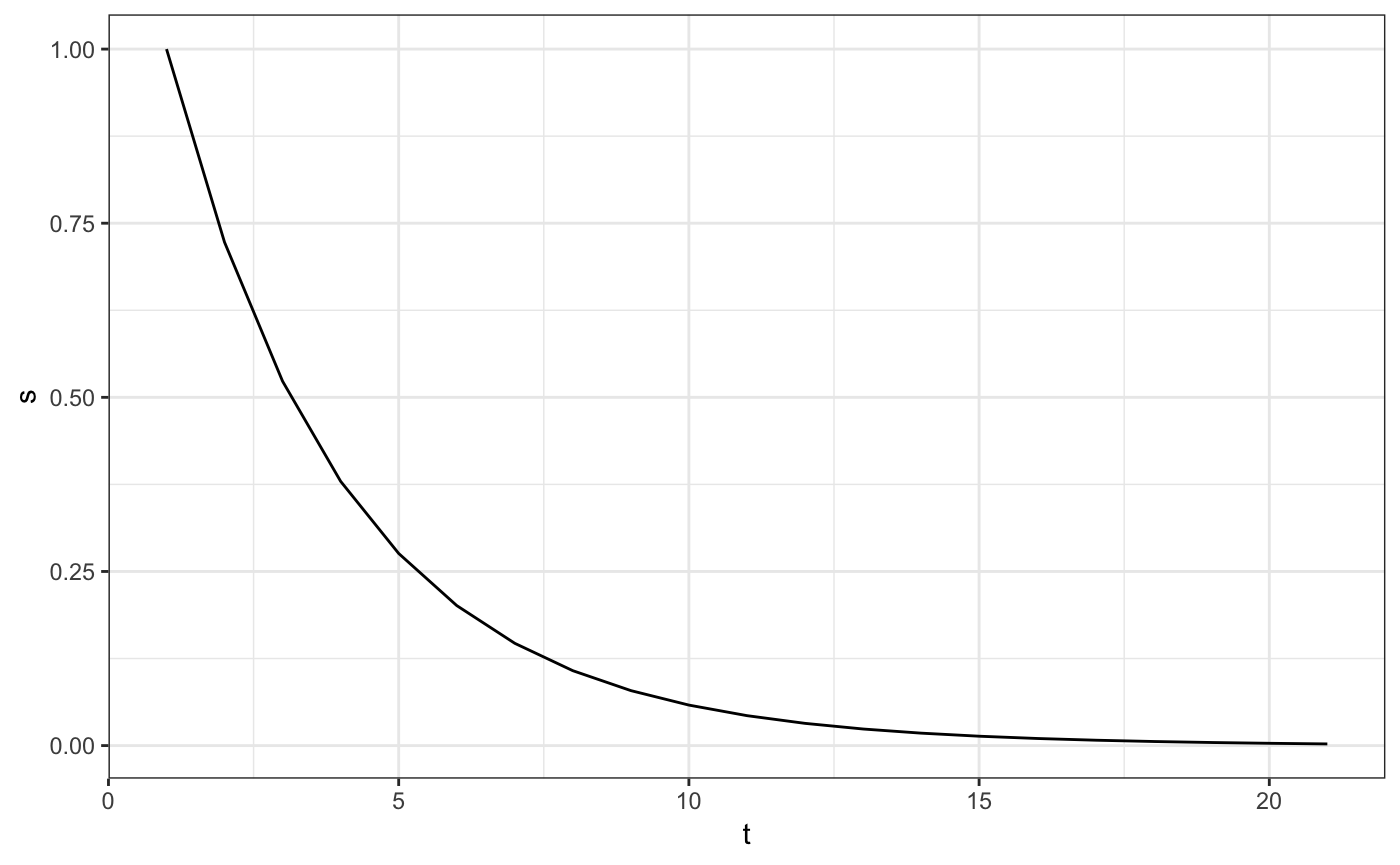
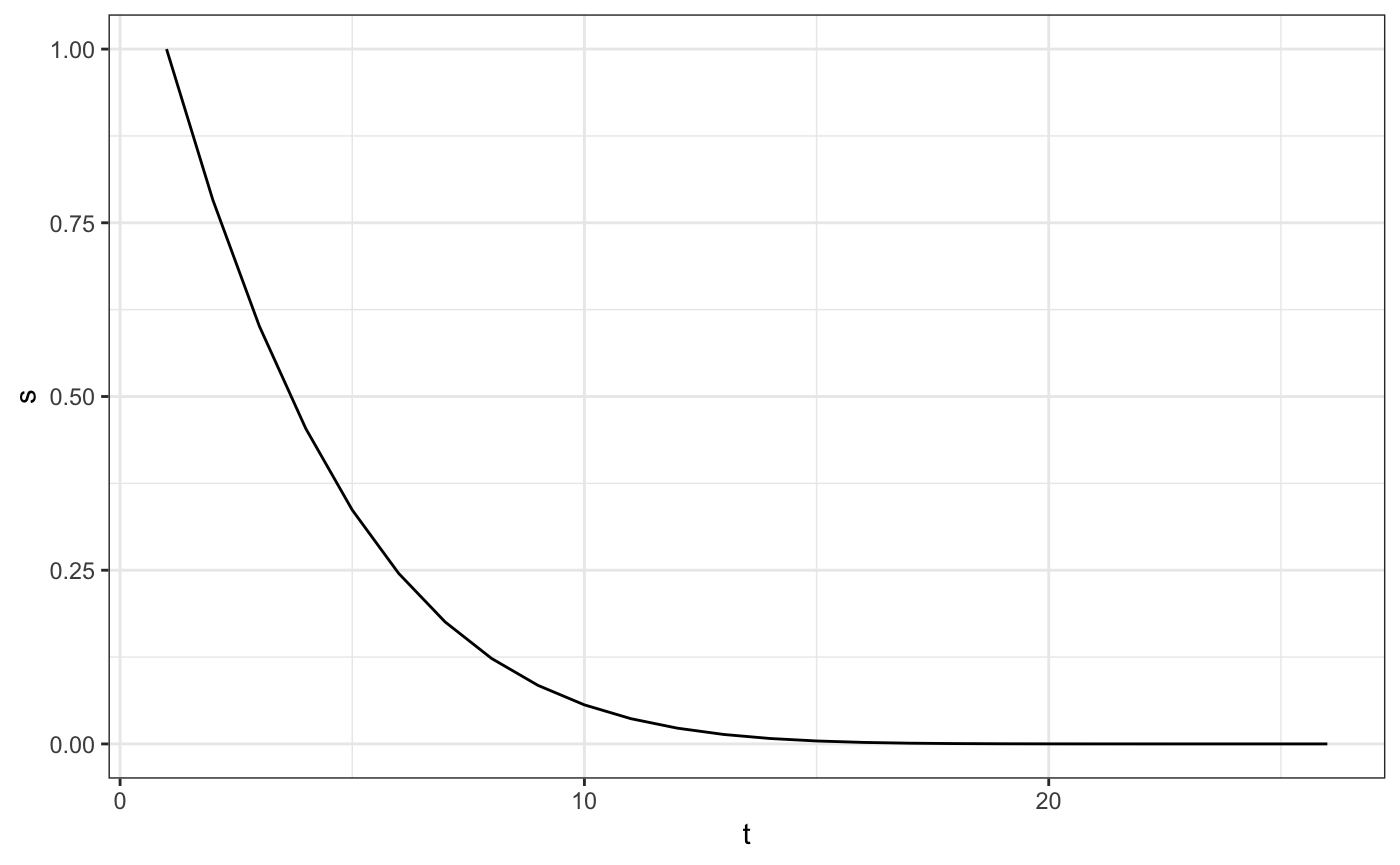
fix DESCRIPTION

diff --git a/docs/articles/moss_intro.html b/docs/articles/moss_intro.html
@@ -80,7 +80,7 @@
       <h1>How to use MOSS package</h1>
                         <h4 class="author"><a href="https://wilsoncai1992.github.io/">Weixin Cai</a></h4>
             
-            <h4 class="date">2019-04-16</h4>
+            <h4 class="date">2019-04-17</h4>
       
       <small class="dont-index">Source: <a href="https://github.com/wilsoncai1992/MOSS/blob/master/vignettes/moss_intro.rmd"><code>vignettes/moss_intro.rmd</code></a></small>
       <div class="hidden name"><code>moss_intro.rmd</code></div>
@@ -168,7 +168,7 @@
 <pre><code>## Version: 1.1.1</code></pre>
 <pre><code>## Loading required package: R6</code></pre>
 <pre><code>## Loading required package: Rsolnp</code></pre>
-<pre><code>## MOSS v1.1.1: model one-step survival</code></pre>
+<pre><code>## MOSS v1.1.1: Model One-Step Survival</code></pre>
 <div class="sourceCode" id="cb29"><pre class="sourceCode r"><code class="sourceCode r"><a class="sourceLine" id="cb29-1" data-line-number="1">sl_lib_g &lt;-<span class="st"> </span><span class="kw"><a href="https://www.rdocumentation.org/packages/base/topics/c">c</a></span>(<span class="st">"SL.mean"</span>, <span class="st">"SL.glm"</span>)</a>
 <a class="sourceLine" id="cb29-2" data-line-number="2">sl_lib_censor &lt;-<span class="st"> </span><span class="kw"><a href="https://www.rdocumentation.org/packages/base/topics/c">c</a></span>(<span class="st">"SL.mean"</span>, <span class="st">"SL.glm"</span>)</a>
 <a class="sourceLine" id="cb29-3" data-line-number="3">sl_lib_failure &lt;-<span class="st"> </span><span class="kw"><a href="https://www.rdocumentation.org/packages/base/topics/c">c</a></span>(<span class="st">"SL.mean"</span>, <span class="st">"SL.glm"</span>, <span class="st">"SL.step.forward"</span>)</a>
@@ -187,33 +187,35 @@
 
 ## Warning: glm.fit: fitted probabilities numerically 0 or 1 occurred
 
+## Warning: glm.fit: fitted probabilities numerically 0 or 1 occurred
+
+## Warning: glm.fit: fitted probabilities numerically 0 or 1 occurred
+
+## Warning: glm.fit: fitted probabilities numerically 0 or 1 occurred
+
+## Warning: glm.fit: fitted probabilities numerically 0 or 1 occurred
+
+## Warning: glm.fit: fitted probabilities numerically 0 or 1 occurred
+
+## Warning: glm.fit: fitted probabilities numerically 0 or 1 occurred
+
+## Warning: glm.fit: fitted probabilities numerically 0 or 1 occurred
+
+## Warning: glm.fit: fitted probabilities numerically 0 or 1 occurred
+
 ## Warning: glm.fit: fitted probabilities numerically 0 or 1 occurred</code></pre>
-<pre><code>## Warning: glm.fit: algorithm did not converge</code></pre>
-<pre><code>## Warning: glm.fit: fitted probabilities numerically 0 or 1 occurred
-
-## Warning: glm.fit: fitted probabilities numerically 0 or 1 occurred
-
-## Warning: glm.fit: fitted probabilities numerically 0 or 1 occurred
-
-## Warning: glm.fit: fitted probabilities numerically 0 or 1 occurred
-
-## Warning: glm.fit: fitted probabilities numerically 0 or 1 occurred
-
-## Warning: glm.fit: fitted probabilities numerically 0 or 1 occurred
-
-## Warning: glm.fit: fitted probabilities numerically 0 or 1 occurred</code></pre>
-<div class="sourceCode" id="cb33"><pre class="sourceCode r"><code class="sourceCode r"><a class="sourceLine" id="cb33-1" data-line-number="1"><span class="kw"><a href="https://www.rdocumentation.org/packages/base/topics/names">names</a></span>(sl_fit)</a></code></pre></div>
+<div class="sourceCode" id="cb31"><pre class="sourceCode r"><code class="sourceCode r"><a class="sourceLine" id="cb31-1" data-line-number="1"><span class="kw"><a href="https://www.rdocumentation.org/packages/base/topics/names">names</a></span>(sl_fit)</a></code></pre></div>
 <pre><code>## [1] "density_failure_1" "density_failure_0" "density_censor_1" 
 ## [4] "density_censor_0"  "g1W"</code></pre>
 <p>the <code>sl_fit</code> will contain the fitted conditional densities for the failure events (<code>density_failure_1</code> for treatment group, <code>density_failure_0</code> for control group), censoring events (<code>density_censor_1</code> for treatment, <code>density_censor_0</code> for control), and propensity scores (a vector <code>g1W</code>)</p>
-<div class="sourceCode" id="cb35"><pre class="sourceCode r"><code class="sourceCode r"><a class="sourceLine" id="cb35-1" data-line-number="1">sl_fit<span class="op">$</span>density_failure_<span class="dv">1</span><span class="op">$</span><span class="kw">hazard_to_survival</span>()</a></code></pre></div>
+<div class="sourceCode" id="cb33"><pre class="sourceCode r"><code class="sourceCode r"><a class="sourceLine" id="cb33-1" data-line-number="1">sl_fit<span class="op">$</span>density_failure_<span class="dv">1</span><span class="op">$</span><span class="kw">hazard_to_survival</span>()</a></code></pre></div>
 <pre><code>## &lt;survival_curve&gt;
 ##   Public:
 ##     ci: function (A, T_tilde, Delta, density_failure, density_censor, 
 ##     clone: function (deep = FALSE) 
 ##     create_ggplot_df: function (W = NULL) 
 ##     display: function (type, W = NULL) 
-##     hazard: 0.189681420081536 0.293878345332586 0.20317147916468 0.3 ...
+##     hazard: 0.269885029873596 0.339870398782636 0.300586115177013 0. ...
 ##     hazard_to_pdf: function () 
 ##     hazard_to_survival: function () 
 ##     initialize: function (t, hazard = NULL, survival = NULL, pdf = NULL) 
@@ -224,15 +226,15 @@
 ##     survival: 1 1 1 1 1 1 1 1 1 1 1 1 1 1 1 1 1 1 1 1 1 1 1 1 1 1 1 1  ...
 ##     survival_to_hazard: function () 
 ##     survival_to_pdf: function () 
-##     t: 1 2 3 4 5 6 7 8 9 10 11 12 13 14 15 16 17 18 19 20 21</code></pre>
-<div class="sourceCode" id="cb37"><pre class="sourceCode r"><code class="sourceCode r"><a class="sourceLine" id="cb37-1" data-line-number="1">sl_fit<span class="op">$</span>density_failure_<span class="dv">0</span><span class="op">$</span><span class="kw">hazard_to_survival</span>()</a></code></pre></div>
+##     t: 1 2 3 4 5 6 7 8 9 10 11 12 13 14 15 16 17 18 19 20 21 22 ...</code></pre>
+<div class="sourceCode" id="cb35"><pre class="sourceCode r"><code class="sourceCode r"><a class="sourceLine" id="cb35-1" data-line-number="1">sl_fit<span class="op">$</span>density_failure_<span class="dv">0</span><span class="op">$</span><span class="kw">hazard_to_survival</span>()</a></code></pre></div>
 <pre><code>## &lt;survival_curve&gt;
 ##   Public:
 ##     ci: function (A, T_tilde, Delta, density_failure, density_censor, 
 ##     clone: function (deep = FALSE) 
 ##     create_ggplot_df: function (W = NULL) 
 ##     display: function (type, W = NULL) 
-##     hazard: 0.272575225311666 0.412908720540839 0.292426175931976 0. ...
+##     hazard: 0.520974513298299 0.602279192139841 0.558812395023153 0. ...
 ##     hazard_to_pdf: function () 
 ##     hazard_to_survival: function () 
 ##     initialize: function (t, hazard = NULL, survival = NULL, pdf = NULL) 
@@ -243,73 +245,77 @@
 ##     survival: 1 1 1 1 1 1 1 1 1 1 1 1 1 1 1 1 1 1 1 1 1 1 1 1 1 1 1 1  ...
 ##     survival_to_hazard: function () 
 ##     survival_to_pdf: function () 
-##     t: 1 2 3 4 5 6 7 8 9 10 11 12 13 14 15 16 17 18 19 20 21</code></pre>
-<div class="sourceCode" id="cb39"><pre class="sourceCode r"><code class="sourceCode r"><a class="sourceLine" id="cb39-1" data-line-number="1"><span class="co"># a quick hack in case there is no data where T_tilde = 1 (time start from 1)</span></a>
-<a class="sourceLine" id="cb39-2" data-line-number="2">k_grid &lt;-<span class="st"> </span><span class="dv">1</span><span class="op">:</span><span class="kw"><a href="https://www.rdocumentation.org/packages/base/topics/Extremes">max</a></span>(df<span class="op">$</span>T.tilde)</a>
-<a class="sourceLine" id="cb39-3" data-line-number="3">sl_fit<span class="op">$</span>density_failure_<span class="dv">1</span><span class="op">$</span>t &lt;-<span class="st"> </span>k_grid</a>
-<a class="sourceLine" id="cb39-4" data-line-number="4">sl_fit<span class="op">$</span>density_failure_<span class="dv">0</span><span class="op">$</span>t &lt;-<span class="st"> </span>k_grid</a></code></pre></div>
+##     t: 1 2 3 4 5 6 7 8 9 10 11 12 13 14 15 16 17 18 19 20 21 22 ...</code></pre>
+<div class="sourceCode" id="cb37"><pre class="sourceCode r"><code class="sourceCode r"><a class="sourceLine" id="cb37-1" data-line-number="1"><span class="co"># a quick hack in case there is no data where T_tilde = 1 (time start from 1)</span></a>
+<a class="sourceLine" id="cb37-2" data-line-number="2">k_grid &lt;-<span class="st"> </span><span class="dv">1</span><span class="op">:</span><span class="kw"><a href="https://www.rdocumentation.org/packages/base/topics/Extremes">max</a></span>(df<span class="op">$</span>T.tilde)</a>
+<a class="sourceLine" id="cb37-3" data-line-number="3">sl_fit<span class="op">$</span>density_failure_<span class="dv">1</span><span class="op">$</span>t &lt;-<span class="st"> </span>k_grid</a>
+<a class="sourceLine" id="cb37-4" data-line-number="4">sl_fit<span class="op">$</span>density_failure_<span class="dv">0</span><span class="op">$</span>t &lt;-<span class="st"> </span>k_grid</a></code></pre></div>
 <p>We need to call <code>hazard_to_survival</code> method to always do a tranformation from conditional hazard to conditional survival probabilities (one-to-one transformation).</p>
 </div>
 <div id="perform-tmle-adjustment-of-the-conditional-survival-fit-moss_hazard" class="section level1">
 <h1 class="hasAnchor">
 <a href="#perform-tmle-adjustment-of-the-conditional-survival-fit-moss_hazard" class="anchor"></a>perform TMLE adjustment of the conditional survival fit (<code>MOSS_hazard</code>)</h1>
 <p>First we set the inputs - T_tilde: same as before - Delta: same as before - A: same as before - density_failure: use <code>sl_fit$density_failure_1</code> if you want to estimate treatment group survival curve; use <code>sl_fit$density_failure_0</code> for control group - density_censor: use <code>sl_fit$density_censor_1</code> or <code>sl_fit$density_censor_0</code> - g1W: use <code>sl_fit$g1W</code> - A_intervene: set <code>1</code> if you want to estimate treatment group survival curve; set <code>0</code> for control group - k_grid: <code>1:max(T_tilde)</code></p>
-<div class="sourceCode" id="cb40"><pre class="sourceCode r"><code class="sourceCode r"><a class="sourceLine" id="cb40-1" data-line-number="1">moss_hazard_fit &lt;-<span class="st"> </span>MOSS_hazard<span class="op">$</span><span class="kw">new</span>(</a>
-<a class="sourceLine" id="cb40-2" data-line-number="2">  <span class="dt">A =</span> df<span class="op">$</span>A,</a>
-<a class="sourceLine" id="cb40-3" data-line-number="3">  <span class="dt">T_tilde =</span> df<span class="op">$</span>T.tilde,</a>
-<a class="sourceLine" id="cb40-4" data-line-number="4">  <span class="dt">Delta =</span> df<span class="op">$</span>Delta,</a>
-<a class="sourceLine" id="cb40-5" data-line-number="5">  <span class="dt">density_failure =</span> sl_fit<span class="op">$</span>density_failure_<span class="dv">1</span>,</a>
-<a class="sourceLine" id="cb40-6" data-line-number="6">  <span class="dt">density_censor =</span> sl_fit<span class="op">$</span>density_censor_<span class="dv">1</span>,</a>
-<a class="sourceLine" id="cb40-7" data-line-number="7">  <span class="dt">g1W =</span> sl_fit<span class="op">$</span>g1W,</a>
-<a class="sourceLine" id="cb40-8" data-line-number="8">  <span class="dt">A_intervene =</span> <span class="dv">1</span>,</a>
-<a class="sourceLine" id="cb40-9" data-line-number="9">  <span class="dt">k_grid =</span> k_grid</a>
-<a class="sourceLine" id="cb40-10" data-line-number="10">)</a></code></pre></div>
+<div class="sourceCode" id="cb38"><pre class="sourceCode r"><code class="sourceCode r"><a class="sourceLine" id="cb38-1" data-line-number="1">moss_hazard_fit &lt;-<span class="st"> </span>MOSS_hazard<span class="op">$</span><span class="kw">new</span>(</a>
+<a class="sourceLine" id="cb38-2" data-line-number="2">  <span class="dt">A =</span> df<span class="op">$</span>A,</a>
+<a class="sourceLine" id="cb38-3" data-line-number="3">  <span class="dt">T_tilde =</span> df<span class="op">$</span>T.tilde,</a>
+<a class="sourceLine" id="cb38-4" data-line-number="4">  <span class="dt">Delta =</span> df<span class="op">$</span>Delta,</a>
+<a class="sourceLine" id="cb38-5" data-line-number="5">  <span class="dt">density_failure =</span> sl_fit<span class="op">$</span>density_failure_<span class="dv">1</span>,</a>
+<a class="sourceLine" id="cb38-6" data-line-number="6">  <span class="dt">density_censor =</span> sl_fit<span class="op">$</span>density_censor_<span class="dv">1</span>,</a>
+<a class="sourceLine" id="cb38-7" data-line-number="7">  <span class="dt">g1W =</span> sl_fit<span class="op">$</span>g1W,</a>
+<a class="sourceLine" id="cb38-8" data-line-number="8">  <span class="dt">A_intervene =</span> <span class="dv">1</span>,</a>
+<a class="sourceLine" id="cb38-9" data-line-number="9">  <span class="dt">k_grid =</span> k_grid</a>
+<a class="sourceLine" id="cb38-10" data-line-number="10">)</a></code></pre></div>
 <p>Perform TMLE step.</p>
-<div class="sourceCode" id="cb41"><pre class="sourceCode r"><code class="sourceCode r"><a class="sourceLine" id="cb41-1" data-line-number="1">psi_moss_hazard_<span class="dv">1</span> &lt;-<span class="st"> </span>moss_hazard_fit<span class="op">$</span><span class="kw">iterate_onestep</span>(</a>
-<a class="sourceLine" id="cb41-2" data-line-number="2">  <span class="dt">epsilon =</span> <span class="fl">1e-2</span>, <span class="dt">max_num_interation =</span> <span class="fl">1e1</span>, <span class="dt">verbose =</span> <span class="ot">FALSE</span></a>
-<a class="sourceLine" id="cb41-3" data-line-number="3">)</a></code></pre></div>
+<div class="sourceCode" id="cb39"><pre class="sourceCode r"><code class="sourceCode r"><a class="sourceLine" id="cb39-1" data-line-number="1">psi_moss_hazard_<span class="dv">1</span> &lt;-<span class="st"> </span>moss_hazard_fit<span class="op">$</span><span class="kw">iterate_onestep</span>(</a>
+<a class="sourceLine" id="cb39-2" data-line-number="2">  <span class="dt">epsilon =</span> <span class="fl">1e-2</span>, <span class="dt">max_num_interation =</span> <span class="fl">1e1</span>, <span class="dt">verbose =</span> <span class="ot">FALSE</span></a>
+<a class="sourceLine" id="cb39-3" data-line-number="3">)</a></code></pre></div>
 <p>TIPS: - set <code>epsilon</code> smaller if the stopping criteria fluctuation is noisy; should smoothly decrease</p>
-<div class="sourceCode" id="cb42"><pre class="sourceCode r"><code class="sourceCode r"><a class="sourceLine" id="cb42-1" data-line-number="1">moss_hazard_fit_<span class="dv">1</span> &lt;-<span class="st"> </span>survival_curve<span class="op">$</span><span class="kw">new</span>(<span class="dt">t =</span> k_grid, <span class="dt">survival =</span> psi_moss_hazard_<span class="dv">1</span>)</a>
-<a class="sourceLine" id="cb42-2" data-line-number="2">moss_hazard_fit_<span class="dv">1</span><span class="op">$</span><span class="kw">display</span>(<span class="dt">type =</span> <span class="st">'survival'</span>)</a></code></pre></div>
+<div class="sourceCode" id="cb40"><pre class="sourceCode r"><code class="sourceCode r"><a class="sourceLine" id="cb40-1" data-line-number="1">moss_hazard_fit_<span class="dv">1</span> &lt;-<span class="st"> </span>survival_curve<span class="op">$</span><span class="kw">new</span>(<span class="dt">t =</span> k_grid, <span class="dt">survival =</span> psi_moss_hazard_<span class="dv">1</span>)</a>
+<a class="sourceLine" id="cb40-2" data-line-number="2">moss_hazard_fit_<span class="dv">1</span><span class="op">$</span><span class="kw">display</span>(<span class="dt">type =</span> <span class="st">'survival'</span>)</a></code></pre></div>
 <p><img src="moss_intro_files/figure-html/unnamed-chunk-7-1.png" width="700"> You don’t have to, but this wraps the estimated survival curve <code>psi_moss_hazard_1</code> nicely with its corresponding time.</p>
 </div>
 <div id="simultaneous-confidence-band-compute_simultaneous_ci" class="section level1">
 <h1 class="hasAnchor">
 <a href="#simultaneous-confidence-band-compute_simultaneous_ci" class="anchor"></a>simultaneous confidence band (<code>compute_simultaneous_ci</code>)</h1>
 <p>use the following script to compute the standard error for each t on the survival curve.</p>
-<div class="sourceCode" id="cb43"><pre class="sourceCode r"><code class="sourceCode r"><a class="sourceLine" id="cb43-1" data-line-number="1">survival_curve_estimate &lt;-<span class="st"> </span><span class="kw"><a href="https://www.rdocumentation.org/packages/base/topics/vector">as.vector</a></span>(moss_hazard_fit_<span class="dv">1</span><span class="op">$</span>survival)</a>
-<a class="sourceLine" id="cb43-2" data-line-number="2">eic_fit &lt;-<span class="st"> </span>eic<span class="op">$</span><span class="kw">new</span>(</a>
-<a class="sourceLine" id="cb43-3" data-line-number="3">  <span class="dt">A =</span> df<span class="op">$</span>A,</a>
-<a class="sourceLine" id="cb43-4" data-line-number="4">  <span class="dt">T_tilde =</span> df<span class="op">$</span>T.tilde,</a>
-<a class="sourceLine" id="cb43-5" data-line-number="5">  <span class="dt">Delta =</span> df<span class="op">$</span>Delta,<span class="dt">density_failure =</span> moss_hazard_fit<span class="op">$</span>density_failure,</a>
-<a class="sourceLine" id="cb43-6" data-line-number="6">  <span class="dt">density_censor =</span> moss_hazard_fit<span class="op">$</span>density_censor,</a>
-<a class="sourceLine" id="cb43-7" data-line-number="7">  <span class="dt">g1W =</span> moss_hazard_fit<span class="op">$</span>g1W,</a>
-<a class="sourceLine" id="cb43-8" data-line-number="8">  <span class="dt">psi =</span> survival_curve_estimate,</a>
-<a class="sourceLine" id="cb43-9" data-line-number="9">  <span class="dt">A_intervene =</span> <span class="dv">1</span></a>
-<a class="sourceLine" id="cb43-10" data-line-number="10">)</a>
-<a class="sourceLine" id="cb43-11" data-line-number="11"></a>
-<a class="sourceLine" id="cb43-12" data-line-number="12">eic_matrix &lt;-<span class="st"> </span>eic_fit<span class="op">$</span><span class="kw">all_t</span>(<span class="dt">k_grid =</span> k_grid)</a>
-<a class="sourceLine" id="cb43-13" data-line-number="13">std_err &lt;-<span class="st"> </span><span class="kw"><a href="../reference/compute_simultaneous_ci.html">compute_simultaneous_ci</a></span>(eic_matrix)</a>
-<a class="sourceLine" id="cb43-14" data-line-number="14">upper_bound &lt;-<span class="st"> </span>survival_curve_estimate <span class="op">+</span><span class="st"> </span><span class="fl">1.96</span> <span class="op">*</span><span class="st"> </span>std_err</a>
-<a class="sourceLine" id="cb43-15" data-line-number="15">lower_bound &lt;-<span class="st"> </span>survival_curve_estimate <span class="op">-</span><span class="st"> </span><span class="fl">1.96</span> <span class="op">*</span><span class="st"> </span>std_err</a>
-<a class="sourceLine" id="cb43-16" data-line-number="16"></a>
-<a class="sourceLine" id="cb43-17" data-line-number="17"><span class="kw"><a href="https://www.rdocumentation.org/packages/base/topics/print">print</a></span>(survival_curve_estimate)</a></code></pre></div>
-<pre><code>##  [1] 1.000000000 0.722535206 0.523024627 0.379409585 0.275858529
-##  [6] 0.201064494 0.146877158 0.107551900 0.078965405 0.058163289
-## [11] 0.043002080 0.031932134 0.023829087 0.017875543 0.013480260
-## [16] 0.010209814 0.007755451 0.005888271 0.004444130 0.003305966
-## [21] 0.002391034</code></pre>
-<div class="sourceCode" id="cb45"><pre class="sourceCode r"><code class="sourceCode r"><a class="sourceLine" id="cb45-1" data-line-number="1"><span class="kw"><a href="https://www.rdocumentation.org/packages/base/topics/print">print</a></span>(upper_bound)</a></code></pre></div>
-<pre><code>##  [1] 1.21299270 1.13719537 0.94235050 0.77852567 0.66296816 0.57164273
-##  [7] 0.50218765 0.43736908 0.40569540 0.38368635 0.36891018 0.35968054
-## [13] 0.34758491 0.34621759 0.32269104 0.32710960 0.33400782 0.34322365
-## [19] 0.35483904 0.11461984 0.05154034</code></pre>
-<div class="sourceCode" id="cb47"><pre class="sourceCode r"><code class="sourceCode r"><a class="sourceLine" id="cb47-1" data-line-number="1"><span class="kw"><a href="https://www.rdocumentation.org/packages/base/topics/print">print</a></span>(lower_bound)</a></code></pre></div>
-<pre><code>##  [1]  0.78700730  0.30787505  0.10369875 -0.01970650 -0.11125110
-##  [6] -0.16951374 -0.20843333 -0.22226528 -0.24776459 -0.26735977
-## [11] -0.28290602 -0.29581627 -0.29992673 -0.31046650 -0.29573052
-## [16] -0.30668998 -0.31849692 -0.33144711 -0.34595078 -0.10800791
-## [21] -0.04675827</code></pre>
+<div class="sourceCode" id="cb41"><pre class="sourceCode r"><code class="sourceCode r"><a class="sourceLine" id="cb41-1" data-line-number="1">survival_curve_estimate &lt;-<span class="st"> </span><span class="kw"><a href="https://www.rdocumentation.org/packages/base/topics/vector">as.vector</a></span>(moss_hazard_fit_<span class="dv">1</span><span class="op">$</span>survival)</a>
+<a class="sourceLine" id="cb41-2" data-line-number="2">eic_fit &lt;-<span class="st"> </span>eic<span class="op">$</span><span class="kw">new</span>(</a>
+<a class="sourceLine" id="cb41-3" data-line-number="3">  <span class="dt">A =</span> df<span class="op">$</span>A,</a>
+<a class="sourceLine" id="cb41-4" data-line-number="4">  <span class="dt">T_tilde =</span> df<span class="op">$</span>T.tilde,</a>
+<a class="sourceLine" id="cb41-5" data-line-number="5">  <span class="dt">Delta =</span> df<span class="op">$</span>Delta,<span class="dt">density_failure =</span> moss_hazard_fit<span class="op">$</span>density_failure,</a>
+<a class="sourceLine" id="cb41-6" data-line-number="6">  <span class="dt">density_censor =</span> moss_hazard_fit<span class="op">$</span>density_censor,</a>
+<a class="sourceLine" id="cb41-7" data-line-number="7">  <span class="dt">g1W =</span> moss_hazard_fit<span class="op">$</span>g1W,</a>
+<a class="sourceLine" id="cb41-8" data-line-number="8">  <span class="dt">psi =</span> survival_curve_estimate,</a>
+<a class="sourceLine" id="cb41-9" data-line-number="9">  <span class="dt">A_intervene =</span> <span class="dv">1</span></a>
+<a class="sourceLine" id="cb41-10" data-line-number="10">)</a>
+<a class="sourceLine" id="cb41-11" data-line-number="11"></a>
+<a class="sourceLine" id="cb41-12" data-line-number="12">eic_matrix &lt;-<span class="st"> </span>eic_fit<span class="op">$</span><span class="kw">all_t</span>(<span class="dt">k_grid =</span> k_grid)</a>
+<a class="sourceLine" id="cb41-13" data-line-number="13">std_err &lt;-<span class="st"> </span><span class="kw"><a href="../reference/compute_simultaneous_ci.html">compute_simultaneous_ci</a></span>(eic_matrix)</a>
+<a class="sourceLine" id="cb41-14" data-line-number="14">upper_bound &lt;-<span class="st"> </span>survival_curve_estimate <span class="op">+</span><span class="st"> </span><span class="fl">1.96</span> <span class="op">*</span><span class="st"> </span>std_err</a>
+<a class="sourceLine" id="cb41-15" data-line-number="15">lower_bound &lt;-<span class="st"> </span>survival_curve_estimate <span class="op">-</span><span class="st"> </span><span class="fl">1.96</span> <span class="op">*</span><span class="st"> </span>std_err</a>
+<a class="sourceLine" id="cb41-16" data-line-number="16"></a>
+<a class="sourceLine" id="cb41-17" data-line-number="17"><span class="kw"><a href="https://www.rdocumentation.org/packages/base/topics/print">print</a></span>(survival_curve_estimate)</a></code></pre></div>
+<pre><code>##  [1] 1.000000e+00 7.824095e-01 6.011307e-01 4.537724e-01 3.366843e-01
+##  [6] 2.454190e-01 1.755676e-01 1.230412e-01 8.426530e-02 5.620227e-02
+## [11] 3.635582e-02 2.270398e-02 1.361796e-02 7.804981e-03 4.257006e-03
+## [16] 2.197599e-03 1.067842e-03 4.856696e-04 2.055458e-04 8.070457e-05
+## [21] 2.925159e-05 9.747704e-06 2.976942e-06 8.312310e-07 2.117638e-07
+## [26] 4.900396e-08</code></pre>
+<div class="sourceCode" id="cb43"><pre class="sourceCode r"><code class="sourceCode r"><a class="sourceLine" id="cb43-1" data-line-number="1"><span class="kw"><a href="https://www.rdocumentation.org/packages/base/topics/print">print</a></span>(upper_bound)</a></code></pre></div>
+<pre><code>##  [1] 1.175195055 1.052590796 0.921491178 0.767369030 0.637024674
+##  [6] 0.534727344 0.448203404 0.406927788 0.386625267 0.378261485
+## [11] 0.377810628 0.357210136 0.230631863 0.228745174 0.228067720
+## [16] 0.227745652 0.227370064 0.179305710 0.178417217 0.177701448
+## [21] 0.176999776 0.176350150 0.175803174 0.175405920 0.175255984
+## [26] 0.005795461</code></pre>
+<div class="sourceCode" id="cb45"><pre class="sourceCode r"><code class="sourceCode r"><a class="sourceLine" id="cb45-1" data-line-number="1"><span class="kw"><a href="https://www.rdocumentation.org/packages/base/topics/print">print</a></span>(lower_bound)</a></code></pre></div>
+<pre><code>##  [1]  0.824804945  0.512228269  0.280770284  0.140175718  0.036343863
+##  [6] -0.043889382 -0.097068187 -0.160845431 -0.218094672 -0.265856947
+## [11] -0.305098982 -0.311802185 -0.203395943 -0.213135212 -0.219553708
+## [16] -0.223350455 -0.225234380 -0.178334371 -0.178006125 -0.177540039
+## [21] -0.176941273 -0.176330654 -0.175797220 -0.175404257 -0.175255560
+## [26] -0.005795363</code></pre>
 <div id="session-information" class="section level2">
 <h2 class="hasAnchor">
 <a href="#session-information" class="anchor"></a>Session Information</h2>
@@ -376,7 +382,7 @@
 
 
       <footer><div class="copyright">
-  <p>Developed by Wilson Cai, Mark J. van der Laan.</p>
+  <p>Developed by Weixin Cai, Mark van der Laan.</p>
 </div>
 
 <div class="pkgdown">

diff --git a/README.html b/README.html
@@ -600,12 +600,8 @@ body {
 
 <body>
 
-<h1 id="rmoss"><code>R</code>/MOSS</h1>
[1 lines of base64/hex data omitted]
-<!-- [![CRAN_Status_Badge](http://www.r-pkg.org/badges/version/MOSS)](http://cran.rstudio.com/web/packages/MOSS/index.html) -->
-
-<!-- [![](http://cranlogs.r-pkg.org/badges/MOSS)](http://cran.rstudio.com/web/packages/MOSS/index.html) [![](http://cranlogs.r-pkg.org/badges/grand-total/MOSS)](http://cran.rstudio.com/web/packages/MOSS/index.html) -->
-
+<h1 id="rmoss-semiparametric-efficient-survival-analysis"><code>R</code>/MOSS: Semiparametric Efficient Survival Analysis</h1>
[1 lines of base64/hex data omitted]
 <p>MOSS performs ensemble machine learning and Targeted Maximum Likelihood (TMLE) to estimate the counter-factual marginal survival functions, while non-parametrically adjusting for measured confounding. TMLE approach is employed to create a doubly robust and semi-parametrically efficient estimator. Simultaneous confidence bands of the entire curve is also available for inference. User can specify what kind of static intervention on treatment (exposure).</p>
 <p>The following comparable methods are also included in the package for you to easily compare methods: - Inverse censoring probability weighted (IPCW) - Locally efficient one-step estimator (estimating equation methods)</p>
 <div class="sourceCode" id="cb1"><pre class="sourceCode r"><code class="sourceCode r"><a class="sourceLine" id="cb1-1" data-line-number="1"><span class="kw">install.packages</span>(<span class="st">'MOSS'</span>)</a>

diff --git a/docs/index.html b/docs/index.html
@@ -5,11 +5,11 @@
 <meta charset="utf-8">
 <meta http-equiv="X-UA-Compatible" content="IE=edge">
 <meta name="viewport" content="width=device-width, initial-scale=1.0">
-<title>One-step TMLE for survival analysis • MOSS</title>
+<title>One-Step TMLE for Survival Analysis • MOSS</title>
 <!-- jquery --><script src="https://cdnjs.cloudflare.com/ajax/libs/jquery/3.3.1/jquery.min.js" integrity="sha256-FgpCb/KJQlLNfOu91ta32o/NMZxltwRo8QtmkMRdAu8=" crossorigin="anonymous"></script><!-- Bootstrap --><link rel="stylesheet" href="https://cdnjs.cloudflare.com/ajax/libs/twitter-bootstrap/3.3.7/css/bootstrap.min.css" integrity="sha256-916EbMg70RQy9LHiGkXzG8hSg9EdNy97GazNG/aiY1w=" crossorigin="anonymous">
 <script src="https://cdnjs.cloudflare.com/ajax/libs/twitter-bootstrap/3.3.7/js/bootstrap.min.js" integrity="sha256-U5ZEeKfGNOja007MMD3YBI0A3OSZOQbeG6z2f2Y0hu8=" crossorigin="anonymous"></script><!-- Font Awesome icons --><link rel="stylesheet" href="https://cdnjs.cloudflare.com/ajax/libs/font-awesome/4.7.0/css/font-awesome.min.css" integrity="sha256-eZrrJcwDc/3uDhsdt61sL2oOBY362qM3lon1gyExkL0=" crossorigin="anonymous">
 <!-- clipboard.js --><script src="https://cdnjs.cloudflare.com/ajax/libs/clipboard.js/2.0.4/clipboard.min.js" integrity="sha256-FiZwavyI2V6+EXO1U+xzLG3IKldpiTFf3153ea9zikQ=" crossorigin="anonymous"></script><!-- sticky kit --><script src="https://cdnjs.cloudflare.com/ajax/libs/sticky-kit/1.1.3/sticky-kit.min.js" integrity="sha256-c4Rlo1ZozqTPE2RLuvbusY3+SU1pQaJC0TjuhygMipw=" crossorigin="anonymous"></script><!-- pkgdown --><link href="pkgdown.css" rel="stylesheet">
-<script src="pkgdown.js"></script><meta property="og:title" content="One-step TMLE for survival analysis">
+<script src="pkgdown.js"></script><meta property="og:title" content="One-Step TMLE for Survival Analysis">
 <meta property="og:description" content="Estimate counterfactual survival curve under static or dynamic interventions on treatment (exposure), while at the same time adjust for measured confounding. Targeted Maximum Likelihood Estimate (TMLE) approach is employed to create a doubly robust and semi-parametrically efficient estimator. Machine Learning algorithms (SuperLearner) are implemented to all stages of the estimation.">
 <meta name="twitter:card" content="summary">
 <!-- mathjax --><script src="https://cdnjs.cloudflare.com/ajax/libs/mathjax/2.7.5/MathJax.js" integrity="sha256-nvJJv9wWKEm88qvoQl9ekL2J+k/RWIsaSScxxlsrv8k=" crossorigin="anonymous"></script><script src="https://cdnjs.cloudflare.com/ajax/libs/mathjax/2.7.5/config/TeX-AMS-MML_HTMLorMML.js" integrity="sha256-84DKXVJXs0/F8OTMzX4UR909+jtl4G7SPypPavF+GfA=" crossorigin="anonymous"></script><!--[if lt IE 9]>
@@ -80,9 +80,9 @@
 
     
     
-<div id="rmoss" class="section level1">
+<div id="rmoss-semiparametric-efficient-survival-analysis" class="section level1">
 <div class="page-header"><h1 class="hasAnchor">
-<a href="#rmoss" class="anchor"></a><code>R</code>/MOSS</h1></div>
+<a href="#rmoss-semiparametric-efficient-survival-analysis" class="anchor"></a><code>R</code>/MOSS: Semiparametric Efficient Survival Analysis</h1></div>
 
 <p>MOSS performs ensemble machine learning and Targeted Maximum Likelihood (TMLE) to estimate the counter-factual marginal survival functions, while non-parametrically adjusting for measured confounding. TMLE approach is employed to create a doubly robust and semi-parametrically efficient estimator. Simultaneous confidence bands of the entire curve is also available for inference. User can specify what kind of static intervention on treatment (exposure).</p>
 <p>The following comparable methods are also included in the package for you to easily compare methods: - Inverse censoring probability weighted (IPCW) - Locally efficient one-step estimator (estimating equation methods)</p>
@@ -164,8 +164,8 @@
 <div class="developers">
 <h2>Developers</h2>
 <ul class="list-unstyled">
-<li>Wilson Cai <br><small class="roles"> Author, maintainer </small>  </li>
-<li>Mark J. van der Laan <br><small class="roles"> Author </small>  </li>
+<li>Weixin Cai <br><small class="roles"> Author, maintainer, copyright holder </small> <a href="https://orcid.org/0000-0003-2680-3066" target="orcid.widget"><img src="https://members.orcid.org/sites/default/files/vector_iD_icon.svg" class="orcid" alt="ORCID" height="16"></a> </li>
+<li>Mark van der Laan <br><small class="roles"> Author </small>  </li>
 </ul>
 </div>
 
@@ -177,6 +177,9 @@
 <li><a href="https://codecov.io/gh/wilsoncai1992/MOSS"><img src="https://codecov.io/gh/wilsoncai1992/MOSS/branch/master/graph/badge.svg" alt="codecov"></a></li>
 <li><a href="https://www.repostatus.org/#active"><img src="https://www.repostatus.org/badges/latest/active.svg" alt="Project Status: Active – The project has reached a stable, usable state and is being actively developed."></a></li>
 <li><a href="https://www.gnu.org/licenses/gpl-2.0"><img src="https://img.shields.io/badge/License-GPL%20v2-blue.svg" alt="License: GPL v2"></a></li>
+<li><a href="http://cran.rstudio.com/web/packages/MOSS/index.html"><img src="http://www.r-pkg.org/badges/version/MOSS" alt="CRAN_Status_Badge"></a></li>
+<li><a href="http://cran.rstudio.com/web/packages/MOSS/index.html"><img src="http://cranlogs.r-pkg.org/badges/MOSS"></a></li>
+<li><a href="http://cran.rstudio.com/web/packages/MOSS/index.html"><img src="http://cranlogs.r-pkg.org/badges/grand-total/MOSS"></a></li>
 </ul>
 </div>
 </div>
@@ -185,7 +188,7 @@
 
 
       <footer><div class="copyright">
-  <p>Developed by Wilson Cai, Mark J. van der Laan.</p>
+  <p>Developed by Weixin Cai, Mark van der Laan.</p>
 </div>
 
 <div class="pkgdown">

diff --git a/docs/authors.html b/docs/authors.html
@@ -113,11 +113,11 @@
 
     <ul class="list-unstyled">
       <li>
-        <p><strong>Wilson Cai</strong>. Author, maintainer. 
+        <p><strong>Weixin Cai</strong>. Author, maintainer, copyright holder. <a href='https://orcid.org/0000-0003-2680-3066' target='orcid.widget'><img src='https://members.orcid.org/sites/default/files/vector_iD_icon.svg' class='orcid' alt='ORCID' height='16'></a>
         </p>
       </li>
       <li>
-        <p><strong>Mark J. van der Laan</strong>. Author. 
+        <p><strong>Mark van der Laan</strong>. Author. 
         </p>
       </li>
     </ul>
@@ -129,7 +129,7 @@
 
       <footer>
       <div class="copyright">
-  <p>Developed by Wilson Cai, Mark J. van der Laan.</p>
+  <p>Developed by Weixin Cai, Mark van der Laan.</p>
 </div>
 
 <div class="pkgdown">

diff --git a/docs/LICENSE-text.html b/docs/LICENSE-text.html
@@ -149,7 +149,7 @@ OF THIS SOFTWARE, EVEN IF ADVISED OF THE POSSIBILITY OF SUCH DAMAGE.
 
       <footer>
       <div class="copyright">
-  <p>Developed by Wilson Cai, Mark J. van der Laan.</p>
+  <p>Developed by Weixin Cai, Mark van der Laan.</p>
 </div>
 
 <div class="pkgdown">

diff --git a/docs/reference/eic.html b/docs/reference/eic.html
@@ -181,7 +181,7 @@ clever_covariate compute the clever covariate for one time point</p>
 
       <footer>
       <div class="copyright">
-  <p>Developed by Wilson Cai, Mark J. van der Laan.</p>
+  <p>Developed by Weixin Cai, Mark van der Laan.</p>
 </div>
 
 <div class="pkgdown">

diff --git a/docs/reference/MOSS_hazard_ate.html b/docs/reference/MOSS_hazard_ate.html
@@ -192,7 +192,7 @@ failure event survival curve 0</p></dd>
 
       <footer>
       <div class="copyright">
-  <p>Developed by Wilson Cai, Mark J. van der Laan.</p>
+  <p>Developed by Weixin Cai, Mark van der Laan.</p>
 </div>
 
 <div class="pkgdown">

diff --git a/docs/reference/MOSS.html b/docs/reference/MOSS.html
@@ -187,7 +187,7 @@ failure event survival curve</p></dd>
 
       <footer>
       <div class="copyright">
-  <p>Developed by Wilson Cai, Mark J. van der Laan.</p>
+  <p>Developed by Weixin Cai, Mark van der Laan.</p>
 </div>
 
 <div class="pkgdown">

diff --git a/docs/reference/MOSS_hazard.html b/docs/reference/MOSS_hazard.html
@@ -187,7 +187,7 @@ failure event survival curve</p></dd>
 
       <footer>
       <div class="copyright">
-  <p>Developed by Wilson Cai, Mark J. van der Laan.</p>
+  <p>Developed by Weixin Cai, Mark van der Laan.</p>
 </div>
 
 <div class="pkgdown">

diff --git a/docs/reference/ee.html b/docs/reference/ee.html
@@ -178,7 +178,7 @@ failure event survival curve</p></dd>
 
       <footer>
       <div class="copyright">
-  <p>Developed by Wilson Cai, Mark J. van der Laan.</p>
+  <p>Developed by Weixin Cai, Mark van der Laan.</p>
 </div>
 
 <div class="pkgdown">

diff --git a/docs/reference/ipcw.html b/docs/reference/ipcw.html
@@ -178,7 +178,7 @@ failure event survival curve</p></dd>
 
       <footer>
       <div class="copyright">
-  <p>Developed by Wilson Cai, Mark J. van der Laan.</p>
+  <p>Developed by Weixin Cai, Mark van der Laan.</p>
 </div>
 
 <div class="pkgdown">

diff --git a/docs/reference/repeat_t_grid.html b/docs/reference/repeat_t_grid.html
@@ -179,7 +179,7 @@ failure event survival curve</p></dd>
 
       <footer>
       <div class="copyright">
-  <p>Developed by Wilson Cai, Mark J. van der Laan.</p>
+  <p>Developed by Weixin Cai, Mark van der Laan.</p>
 </div>
 
 <div class="pkgdown">
